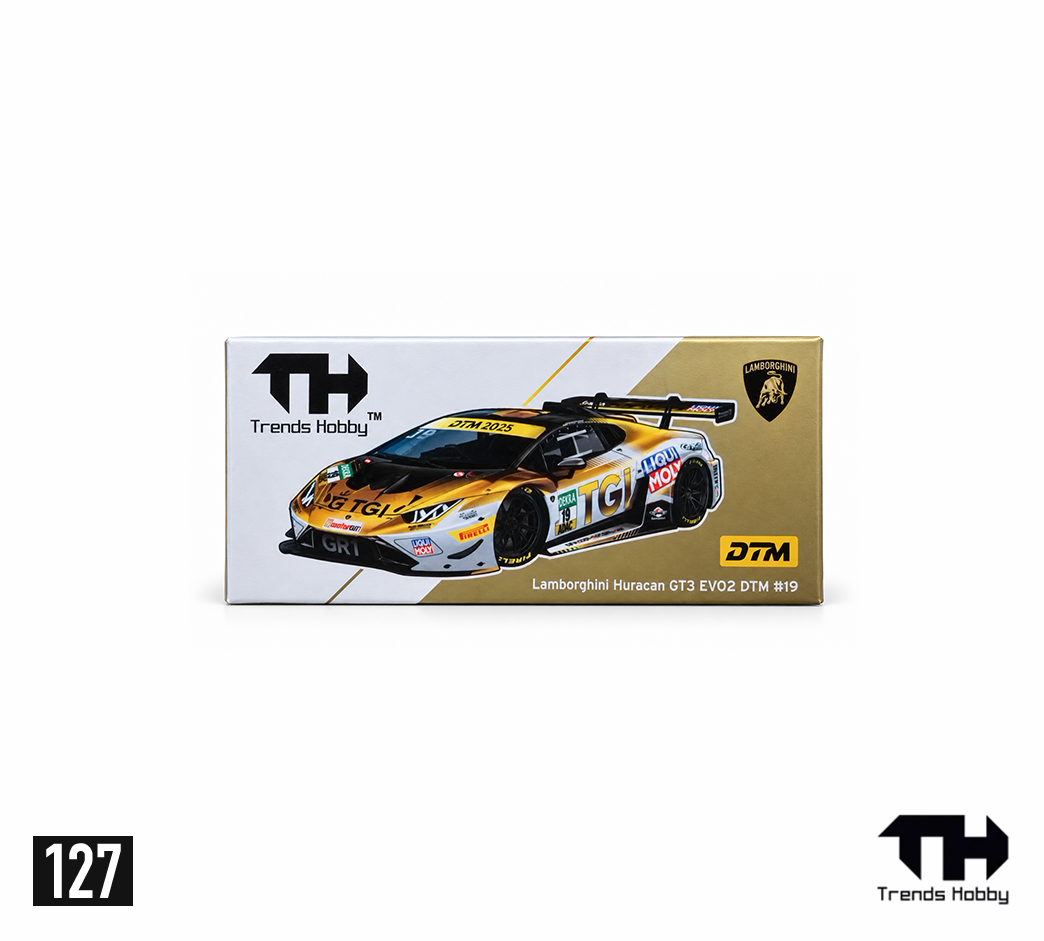
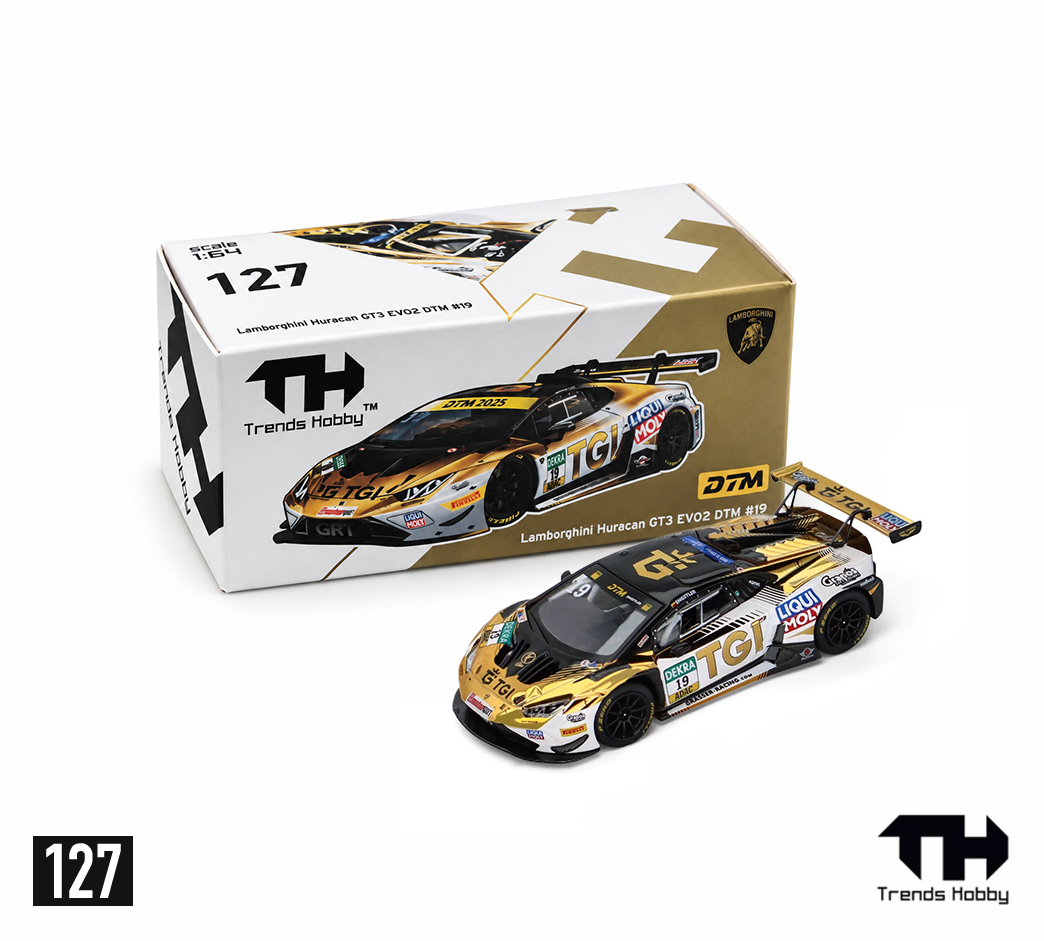
Add new catalogue photos and reorder model dates

Changed region(s): [[0.1533, 0.1849, 0.8889, 0.8321]]

diff --git a/index.html b/index.html
@@ -645,7 +645,7 @@ Quantity: 6000`;
     110:{status:'wishlist',preorderStarted:'July 25, 2026'},111:{status:'wishlist',preorderStarted:'July 25, 2026'},112:{status:'wishlist',preorderStarted:'July 25, 2026'},113:{status:'owned',price:16,purchased:'11.08.2026',preorderStarted:'March 26, 2026'},114:{status:'owned',price:16,purchased:'11.08.2026',preorderStarted:'March 26, 2026'},115:{status:'wishlist'},116:{status:'wishlist'},117:{status:'owned',price:69,purchased:'06.05.2026',preorderStarted:'June 15, 2026',packaging:'Blister Packaging / Box Packaging',note:"#117 exists in two packaging versions. The blister-pack exhibition edition is the version shown here. Pre-orders for the standard boxed edition opened on June 15, 2026."},118:{status:'owned',price:66,purchased:'04.05.2026'},119:{status:'owned',price:19,purchased:'11.08.2026',preorderStarted:'March 26, 2026'},120:{status:'owned',price:20,purchased:'13.07.2026',preorderStarted:'March 26, 2026'},121:{status:'wishlist'},122:{status:'wishlist'},123:{status:'owned',price:21,purchased:'01.09.2026',preorderStarted:'March 26, 2026'},124:{status:'owned',price:26,purchased:'25.07.2026',preorderStarted:'March 26, 2026',packaging:'Acrylic Box Packaging'},125:{status:'owned',price:16,purchased:'13.07.2026',preorderStarted:'April 15, 2026'},126:{status:'owned',price:16,purchased:'13.07.2026',preorderStarted:'April 15, 2026'},127:{status:'wishlist',preorderStarted:'April 15, 2026'},128:{status:'wishlist',preorderStarted:'April 15, 2026'},129:{status:'wishlist',preorderStarted:'April 15, 2026'},130:{status:'wishlist',preorderStarted:'April 15, 2026'},132:{status:'wishlist'},138:{status:'wishlist',preorderStarted:'July 25, 2026'},140:{status:'wishlist',preorderStarted:'June 15, 2026',packaging:'Blister Packaging'},141:{status:'wishlist',preorderStarted:'June 15, 2026',packaging:'Blister Packaging'},142:{status:'owned',note:'#142 was received as a gift from RomanRSG.'},143:{status:'wishlist',preorderStarted:'June 15, 2026'},144:{status:'wishlist',preorderStarted:'July 25, 2026'},145:{status:'wishlist',preorderStarted:'July 25, 2026'},146:{status:'ordered',price:45,purchased:'25.08.2026',packaging:'Blister Packaging'},147:{status:'ordered',price:45,purchased:'25.08.2026',packaging:'Blister Packaging'},149:{status:'wishlist',preorderStarted:'July 25, 2026',packaging:'Acrylic Box Packaging'},159:{status:'wishlist',preorderStarted:'August 21, 2026'},160:{status:'wishlist',preorderStarted:'August 21, 2026'},163:{status:'wishlist',preorderStarted:'August 21, 2026'},164:{status:'wishlist',preorderStarted:'August 21, 2026'},
     '241085(C)-1G':{status:'owned',price:65,purchased:'14.05.2026'},'241084-3G':{status:'wishlist',note:"Partway through the exhibition, Trends Hobby withdrew this set from sale after discovering a production issue affecting the tyre graphics. The printed markings were rubbing against the protective blister inside the packaging, causing them to smear."},'241082HI-2G':{status:'ordered',price:85,purchased:'25.08.2026',note:"Limited to 6,000 sets, this edition was sold through two exclusive channels. The first 1,000 sets were offered at Hong Kong ToyCar Salon 2026, and the remaining 5,000 sets were released online through the official Trends Hobby Douyin store."}
   };
-  const photoFiles = {79:'079.jpg',80:'080.jpg',81:'081.jpg',87:'087.jpg',88:'088-Main-Picture.png',89:'089-Main-Picture.png',90:'090-Main-Picture.png',91:'091-Main-Picture.png',92:'092-Main-Picture.png',93:'093-Main-Picture.png',94:'094-Main-Picture.png',95:'095-Main-Picture.png',96:'096.jpg',97:'097.jpg',98:'098-Main-Picture.png',99:'099-Main-Picture.png',101:'101-Main-Picture.png',102:'102.jpg',103:'103.jpg',104:'104-Main-Picture.png',105:'105-Main-Picture.png',106:'106-Main-Picture.png',107:'107-Main-Picture.png',108:'108-Main-Picture.png',109:'109-Main-Picture.png',110:'110.jpeg',111:'111.jpeg',112:'112.jpeg',113:'113-Main-Picture.png',114:'114-Main-Picture.png',115:'115.jpeg',116:'116.jpeg',117:'117-Main-Picture.png',118:'118-Main-Picture.png',119:'119-Main-Picture.png',120:'120-Main-Picture.png',121:'121.JPG',122:'122.JPG',123:'123-Main-Picture.png',124:'124-Main-Picture.png',125:'125-Main-Picture.png',126:'126-Main-Picture.png',127:'127-Main-Picture.png',128:'128.jpg',129:'129.jpg',130:'130.jpg',132:'132.jpeg',138:'138.jpeg',140:'140.jpeg',141:'141.jpeg',142:'142-Main-Picture.png',143:'143.jpeg',144:'144.jpeg',145:'145.jpeg',146:'146.jpg',147:'147.jpg',149:'149.jpeg',159:'159.jpeg',160:'160.jpeg',163:'163.jpeg',164:'164.jpeg','241085(C)-1G':'241085(C)-1G.jpeg','241084-3G':'241084-3G.jpeg','241082HI-2G':'241082HI-2G.jpeg'};
+  const photoFiles = {79:'079.jpg',80:'080.jpg',81:'081.jpg',87:'087.jpg',88:'088-Main-Picture.png',89:'089-Main-Picture.png',90:'090-Main-Picture.png',91:'091-Main-Picture.png',92:'092-Main-Picture.png',93:'093-Main-Picture.png',94:'094-Main-Picture.png',95:'095-Main-Picture.png',96:'096.jpg',97:'097.jpg',98:'098-Main-Picture.png',99:'099-Main-Picture.png',101:'101-Main-Picture.png',102:'102.jpg',103:'103.jpg',104:'104-Main-Picture.png',105:'105-Main-Picture.png',106:'106-Main-Picture.png',107:'107-Main-Picture.png',108:'108-Main-Picture.png',109:'109-Main-Picture.png',110:'110.jpeg',111:'111.jpeg',112:'112.jpeg',113:'113-Main-Picture.png',114:'114-Main-Picture.png',115:'115.jpeg',116:'116.jpeg',117:'117-Main-Picture.png',118:'118-Main-Picture.png',119:'119-Main-Picture.png',120:'120-Main-Picture.png',121:'121.JPG',122:'122.JPG',123:'123-Main-Picture.png',124:'124-Main-Picture.png',125:'125-Main-Picture.png',126:'126-Main-Picture.png',127:'127-Main-Picture.png',128:'128.jpg',129:'129.jpg',130:'130.jpg',132:'132-Main-Picture.png',138:'138.jpeg',140:'140.jpeg',141:'141.jpeg',142:'142-Main-Picture.png',143:'143.jpeg',144:'144.jpeg',145:'145.jpeg',146:'146-Main-Picture.png',147:'147-Main-Picture.png',149:'149.jpeg',159:'159.jpeg',160:'160.jpeg',163:'163.jpeg',164:'164.jpeg','241085(C)-1G':'Set-01-Main-Picture.png','241084-3G':'Set-02-Main-Picture.png','241082HI-2G':'Set-03-Main-Picture.png'};
   const secondaryPhotoFiles={117:['117-2nd.png']};
   const unavailableBrands={79:'Toyota',80:'McLaren',81:'McLaren',86:'McLaren',87:'McLaren',101:'Porsche',102:'Porsche',103:'Porsche',105:'Porsche'};
 
@@ -703,7 +703,7 @@ Quantity: 6000`;
   function setupStats(){const items=[...models,...sets],owned=items.filter(m=>m.status==='owned'),ordered=items.filter(m=>m.status==='ordered'),wishlist=items.filter(m=>m.status==='wishlist'),preorder=items.filter(m=>m.status==='preorder'),unavailable=items.filter(m=>m.status==='unavailable'),prototype=items.filter(m=>m.status==='prototype'),brands=[...new Set(items.map(m=>m.brand).filter(Boolean))].sort();$('#summaryTotal').textContent=items.length;$('#heroTotal').textContent=items.length;$('#summaryOwned').textContent=owned.length;$('#summaryOrdered').textContent=ordered.length;$('#summaryWishlist').textContent=wishlist.length;$('#summaryPreorder').textContent=preorder.length;$('#summaryUnavailable').textContent=unavailable.length;$('#summaryPrototype').textContent=prototype.length;const brandSelect=$('#brand');brands.forEach(b=>brandSelect.insertAdjacentHTML('beforeend',`<option value="${esc(b)}">${esc(b)}</option>`));$('#brandNav').innerHTML=brands.map(b=>`<button class="side-item brand-item" type="button" data-nav-brand="${esc(b)}"><img class="brand-mark" src="Assets/${esc(brandLogo[b])}.svg" alt="" aria-hidden="true">${esc(b)}<span class="nav-count">${items.filter(m=>m.brand===b&&!m.set).length}</span></button>`).join('')}
   function detailRows(item){
     const unknown=item.prototype||item.unavailable,released=item.release&&item.release!=='Pre-Order';
-    const rows=[unknown?null:['releaseType','Release Type',releaseTypeFor(item),'important'],['brand','Manufacturer',item.brand],unknown?null:['calendar','Release',released&&item.release],unknown?null:['calendar','Pre-Order Starting Date',item.preorderStarted],['color','Colour',item.color],['event','Event',item.event],['calendar','Event Date',item.eventDate],unknown?null:['quantity','Quantity',item.quantity&&item.quantity+' pcs'],['driver','Driver',item.driver],unknown?null:['packaging','Packaging',item.packaging||'Box Packaging','important']];
+    const rows=[unknown?null:['releaseType','Release Type',releaseTypeFor(item),'important'],['brand','Manufacturer',item.brand],unknown?null:['calendar','Pre-Order Starting Date',item.preorderStarted],unknown?null:['calendar','Release',released&&item.release],['color','Colour',item.color],['event','Event',item.event],['calendar','Event Date',item.eventDate],unknown?null:['quantity','Quantity',item.quantity&&item.quantity+' pcs'],['driver','Driver',item.driver],unknown?null:['packaging','Packaging',item.packaging||'Box Packaging','important']];
     return rows.filter(row=>row&&row[2]).map(([icon,k,v,tone])=>detailCell(icon,k,v,tone)).join('')
   }
   function purchasePanel(item){
